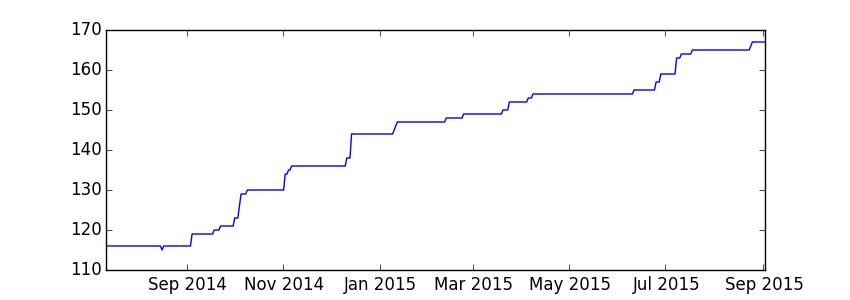
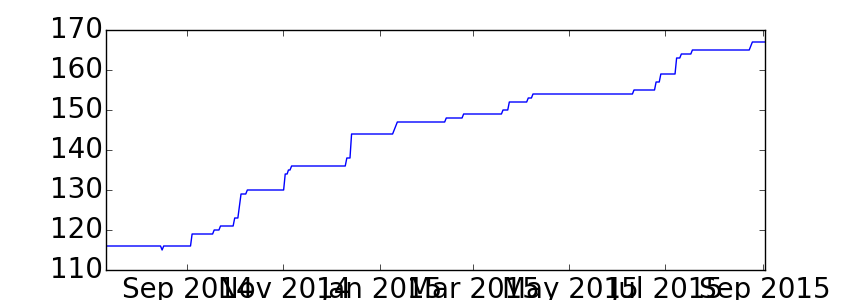
python: change tick label size to 20 :closed_umbrella:

diff --git a/bin/chart_steam.py b/bin/chart_steam.py
@@ -12,6 +12,7 @@ from sqlalchemy import create_engine
 from datetime import datetime
 #from pylab import *
 import matplotlib.pyplot as plt
+import matplotlib
 
 #
 # sqlalchemy classes
@@ -154,7 +155,12 @@ for stats in session.query(SteamProfile).order_by(SteamProfile.when):
 	whens.append(stats.when)
 	counts.append(stats.game_count)
 
+# matplotlib defaults
+matplotlib.rc('xtick', labelsize=20) 
+matplotlib.rc('ytick', labelsize=20) 
 plt.figure(num=None, figsize=(8.5,3), dpi=100)
+
+# make a new chart
 plt.plot(whens,counts)
 png_filename = 'Dash/steam_games.png'
 plt.savefig(png_filename)
